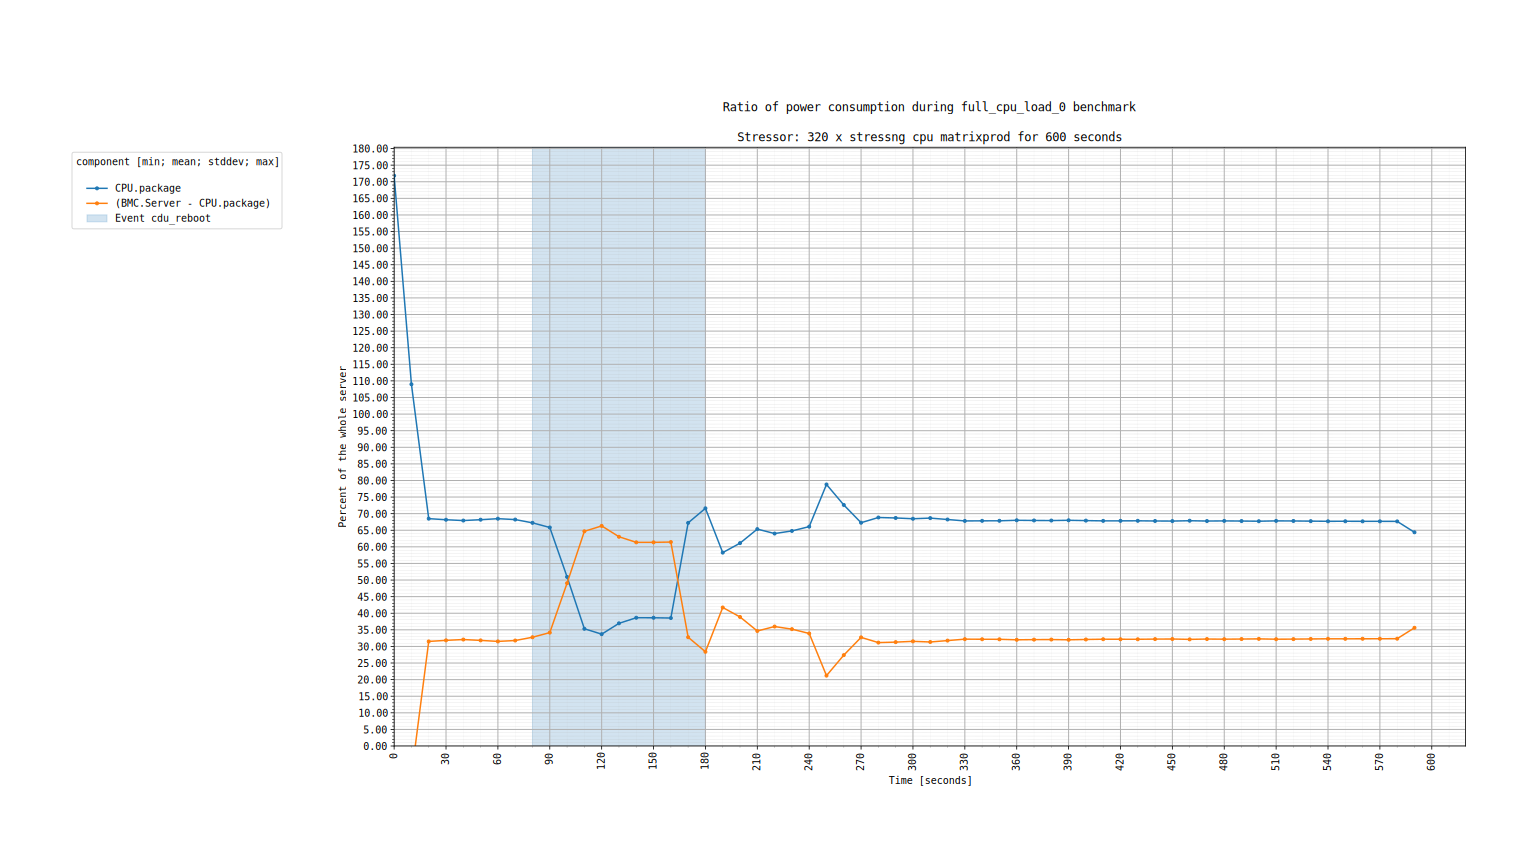
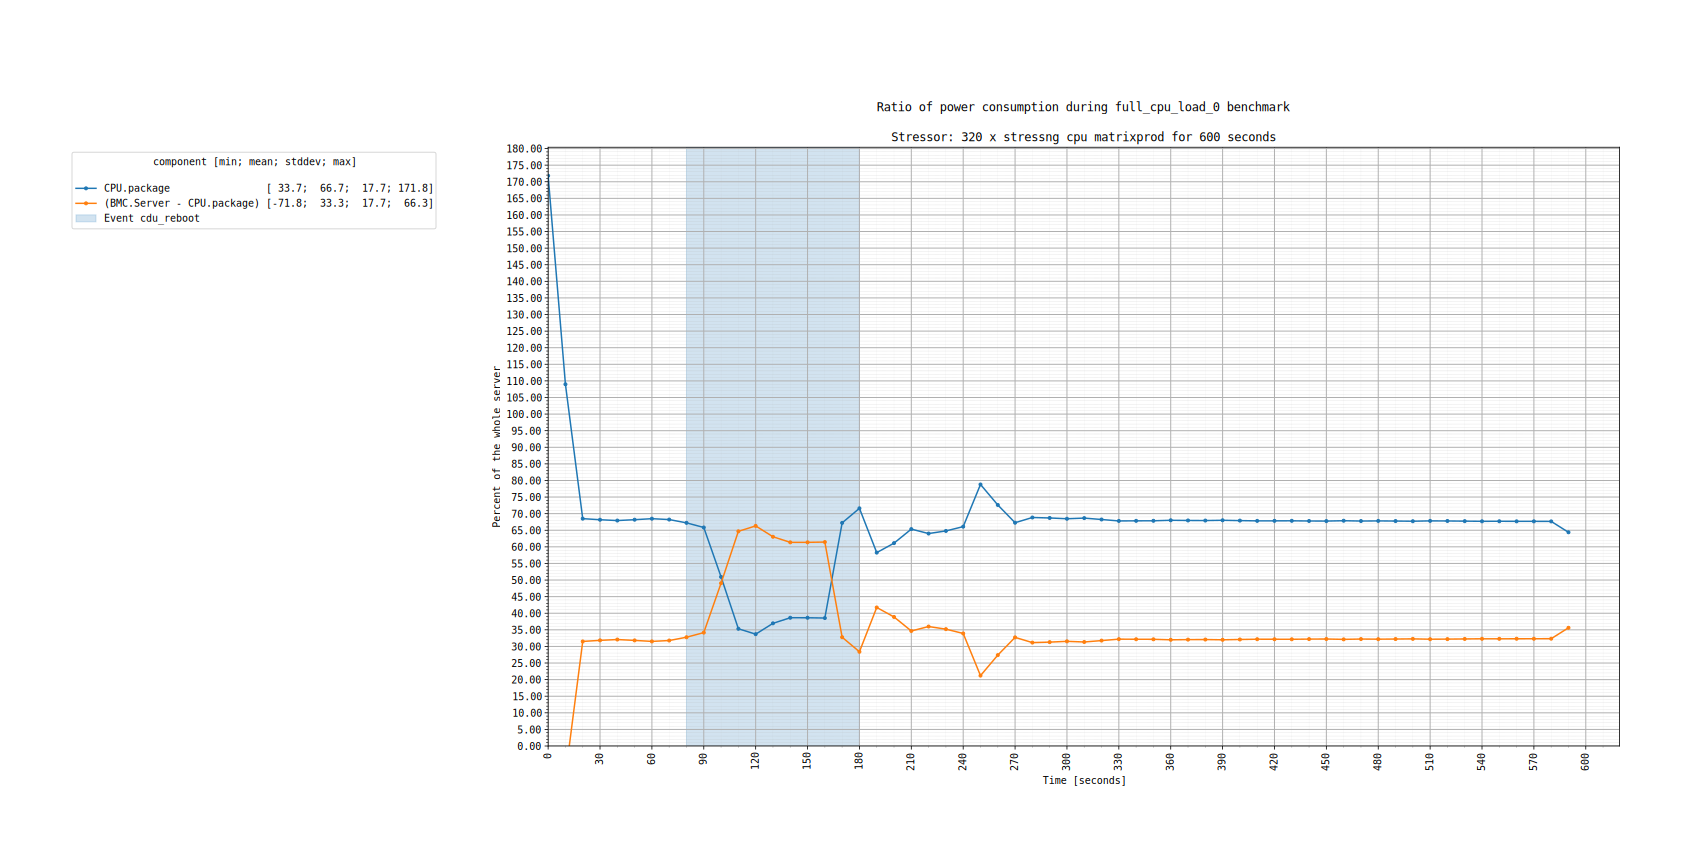
hwgraph: give the [min; mean; stddev; max] of the curves of the group graphs
The legend of the group graphs is titled "component [min; mean; stddev;
max]", like the other graphs, but its curves only give their name: the
statistics of a server, or of the sum of the servers, are not shown.

The curves of the graphs of the servers, of their sum and of its share
give their statistics, aligned on each other as in the other graphs:
  sum of BMC.Server     [49843.2; 68292.7;  2639.4; 69376.0]
  sum of CPU.package    [33207.8; 37024.7;   510.8; 37223.7]

diff --git a/graph/group.py b/graph/group.py
@@ -1,8 +1,15 @@
 import numpy as np
 
 from graph.common import context_header, location_header
-from graph.graph import Graph
+from graph.graph import Graph, get_max_value_string_length, statistics_in_label
 from hwbench.bench.monitoring_structs import MonitoringContextKeys, PowerCategories, PowerConsumptionContextKeys
+
+
+def statistics_labels(series: dict[str, np.ndarray]) -> dict[str, str]:
+    """The labels of curves with their [min; mean; stddev; max], aligned on each other."""
+    title_length = max(len(name) for name in series)
+    value_length = max(get_max_value_string_length(serie) for serie in series.values())
+    return {name: statistics_in_label(name, serie, title_length, value_length) for name, serie in series.items()}
 
 
 def place_suffix(args) -> str:
@@ -24,12 +31,10 @@ def graph_sum_ratio(args, bench, bench_name, output_dir, time_serie, serie, base
     )
 
     # For each type metrics stored into the serie
-    for component in serie:
-        if len(serie[str(component)]) == 0:
-            continue
-        y_serie = np.array(serie[str(component)])[order]
-        curve_label = f"{component!s}"
-        graph.get_ax().plot(x_serie, y_serie, "", label=curve_label, marker=".")
+    series = {f"{component!s}": np.array(serie[str(component)])[order] for component in serie if serie[str(component)]}
+    labels = statistics_labels(series) if series else {}
+    for name, y_serie in series.items():
+        graph.get_ax().plot(x_serie, y_serie, "", label=labels[name], marker=".")
 
     graph.prepare_axes(
         3 * bench.get_time_interval(),
@@ -56,12 +61,12 @@ def graph_sum_of_servers(args, bench, bench_name, output_dir, time_serie, serie,
     )
 
     # For each type metrics stored into the serie
-    for component in serie:
-        if len(serie[str(component)]) == 0:
-            continue
-        y_serie = np.array(serie[str(component)])[order]
-        curve_label = f"sum of {component!s}"
-        graph.get_ax().plot(x_serie, y_serie, "", label=curve_label, marker=".")
+    series = {
+        f"sum of {component!s}": np.array(serie[str(component)])[order] for component in serie if serie[str(component)]
+    }
+    labels = statistics_labels(series) if series else {}
+    for name, y_serie in series.items():
+        graph.get_ax().plot(x_serie, y_serie, "", label=labels[name], marker=".")
 
     graph.prepare_axes(
         3 * bench.get_time_interval(),
@@ -87,15 +92,10 @@ def graph_servers(args, bench, bench_name, output_dir, time_serie, serie, base_o
         f"time_watt_{base_outfile}{place_suffix(args)}_by_servers",
     )
 
-    for trace in args.traces:
-        y_serie = np.array(serie[trace.get_name()])[order]
-        graph.get_ax().plot(
-            x_serie,
-            y_serie,
-            "",
-            label=trace.get_name(),
-            marker=".",
-        )
+    series = {trace.get_name(): np.array(serie[trace.get_name()])[order] for trace in args.traces}
+    labels = statistics_labels(series)
+    for name, y_serie in series.items():
+        graph.get_ax().plot(x_serie, y_serie, "", label=labels[name], marker=".")
 
     graph.prepare_axes(
         3 * bench.get_time_interval(),

diff --git a/graph/test_group.py b/graph/test_group.py
@@ -1,0 +1,12 @@
+import numpy as np
+
+from graph.group import statistics_labels
+
+
+def test_statistics_labels():
+    """The curves give their [min; mean; stddev; max], aligned on each other."""
+    labels = statistics_labels({"SRV1": np.array([1.0, 3.0]), "SERVER2": np.array([10.0, 30.0])})
+    assert labels == {
+        "SRV1": "SRV1    [ 1.0;  2.0;  1.0;  3.0]",
+        "SERVER2": "SERVER2 [10.0; 20.0; 10.0; 30.0]",
+    }

diff --git a/documentation/hwgraph-environment.md b/documentation/hwgraph-environment.md
@@ -208,6 +208,8 @@ For each benchmark, `by_group/` contains:
 | `time_watt_<benchmark> …_by_group` | the sum of the servers: of `BMC.Server`, of `CPU.package`, and the difference between both, what the processors do not account for |
 | `time_watt_percent_<benchmark> …_by_group` | the share of the CPU packages, and of the rest of the servers, in percent of the sum of `BMC.Server` |
 
+The legend gives the `[min; mean; stddev; max]` of each curve.
+
 For example, a group of four servers of the [reference dataset](example/README.md), which ran the
 same benchmark at the same time while the cooling distribution unit was rebooted, with
 the [event](hwgraph.md#events) `cdu_reboot:80:100`:
